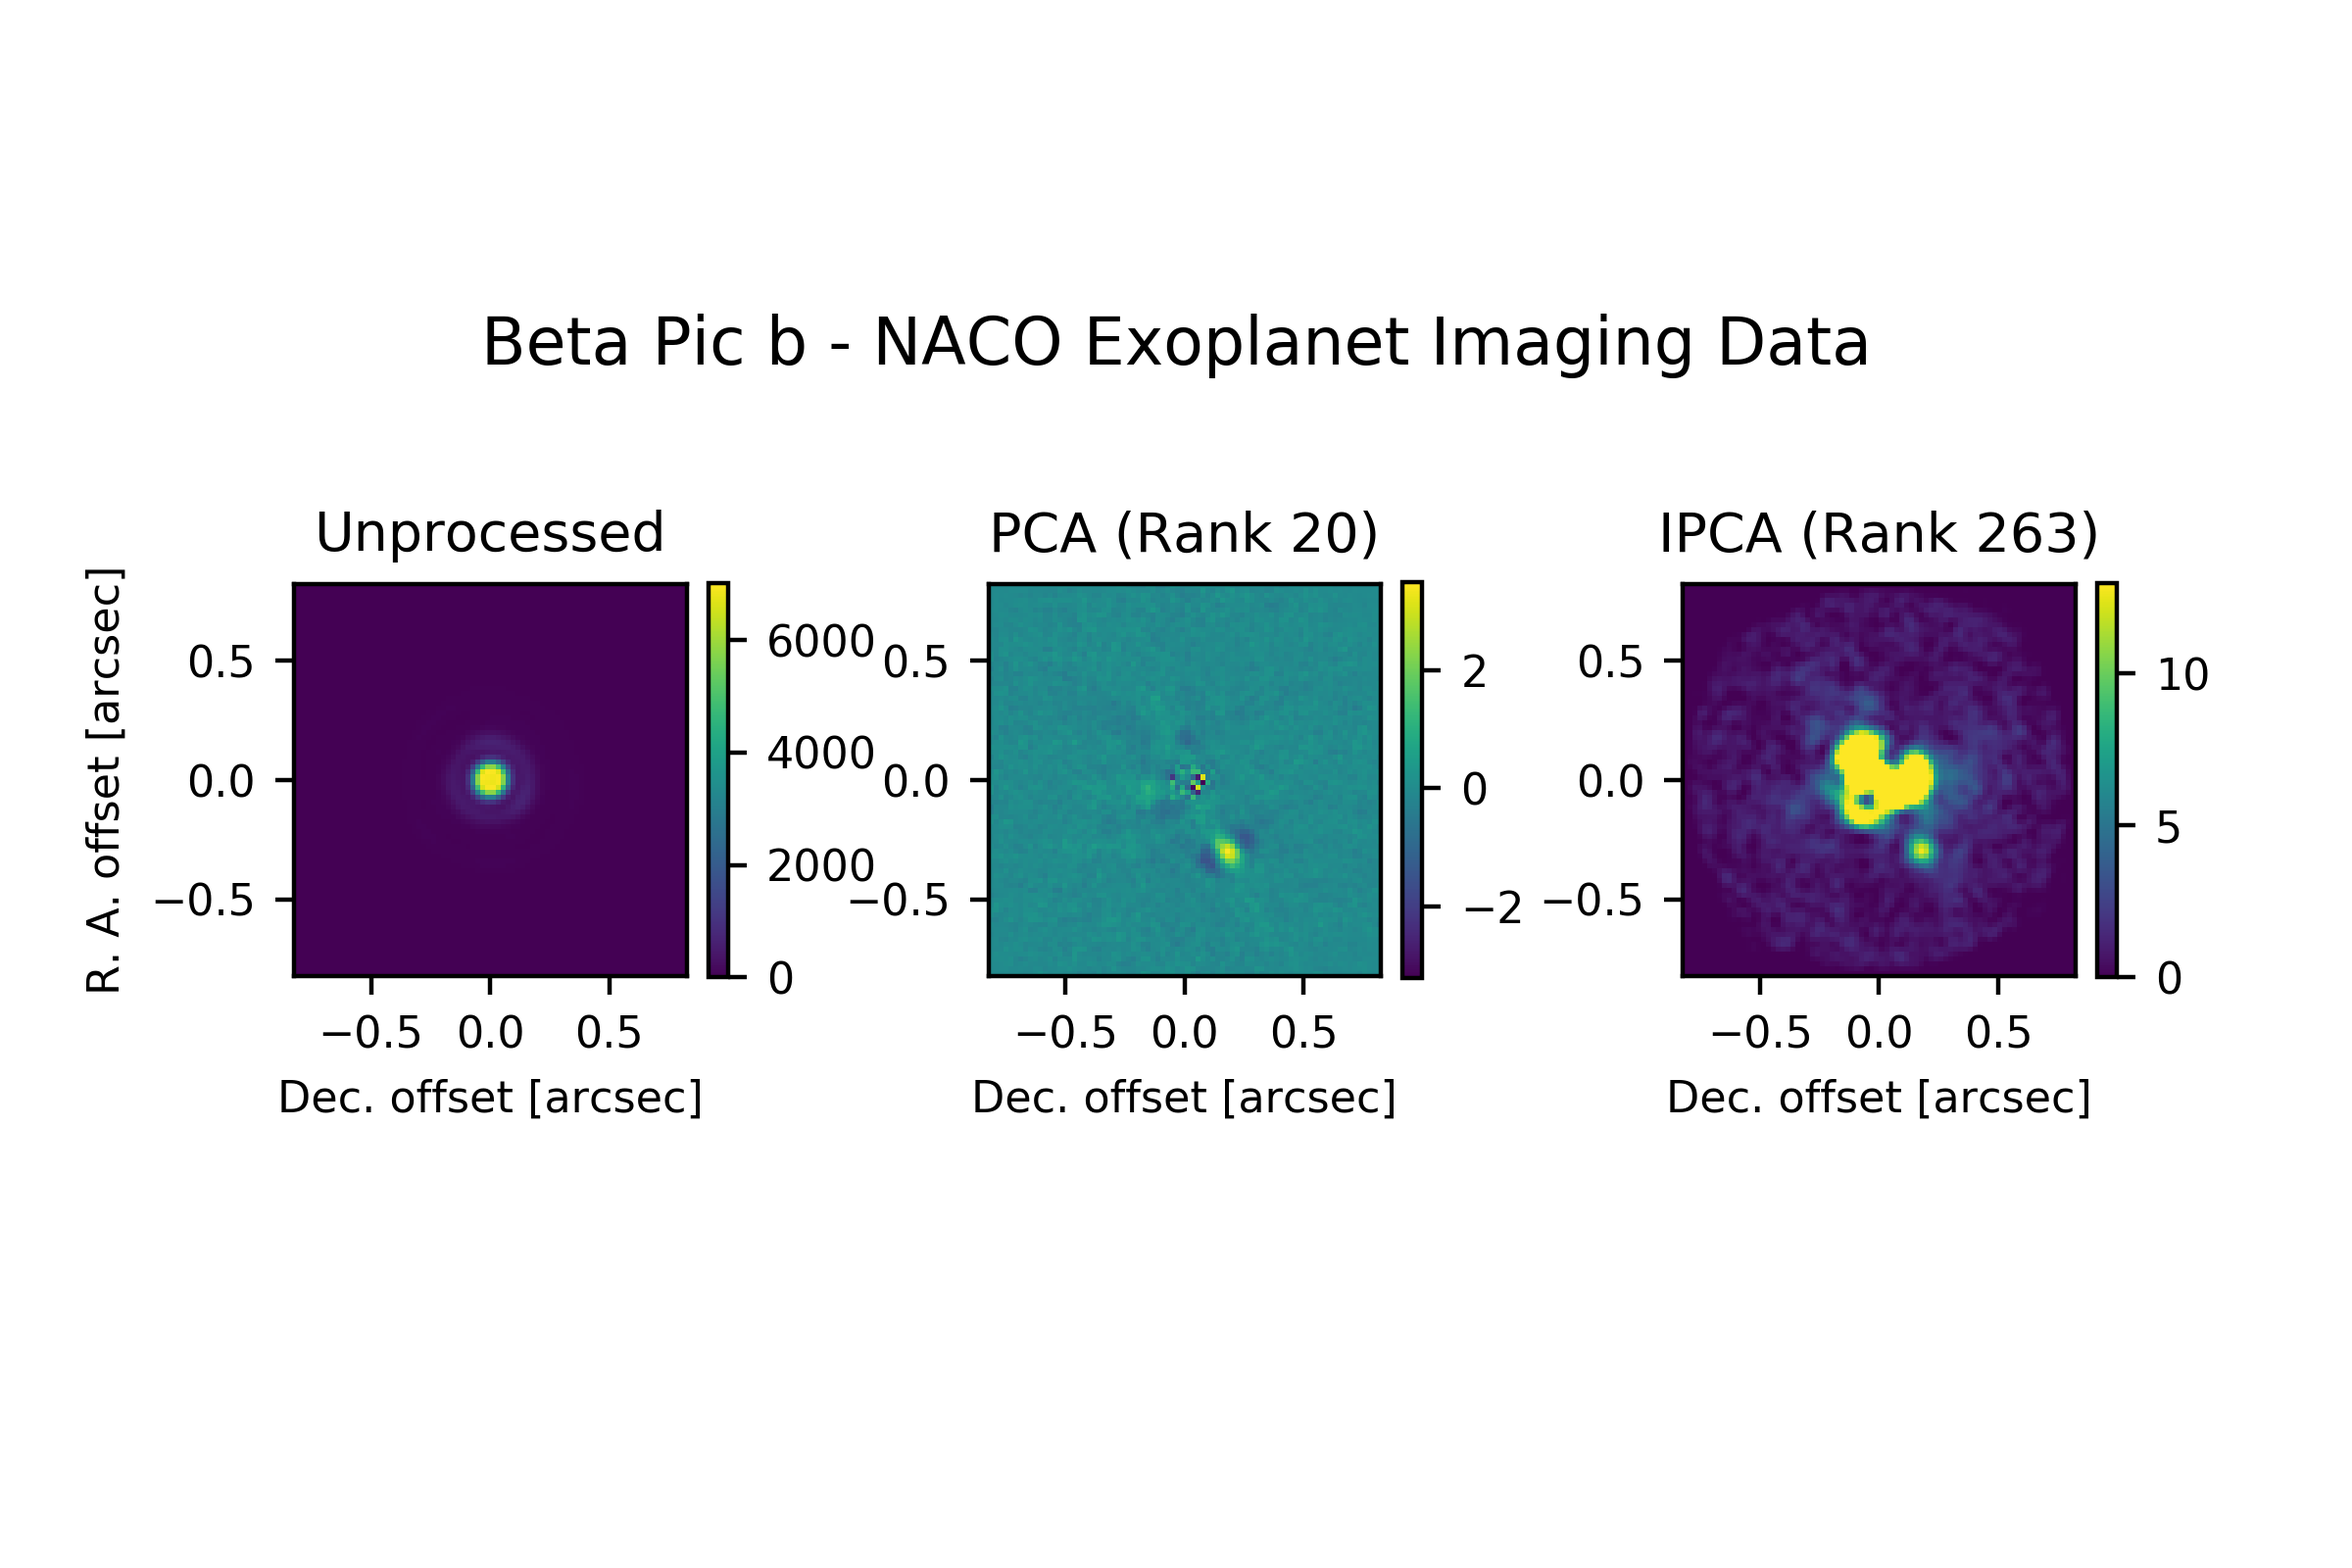
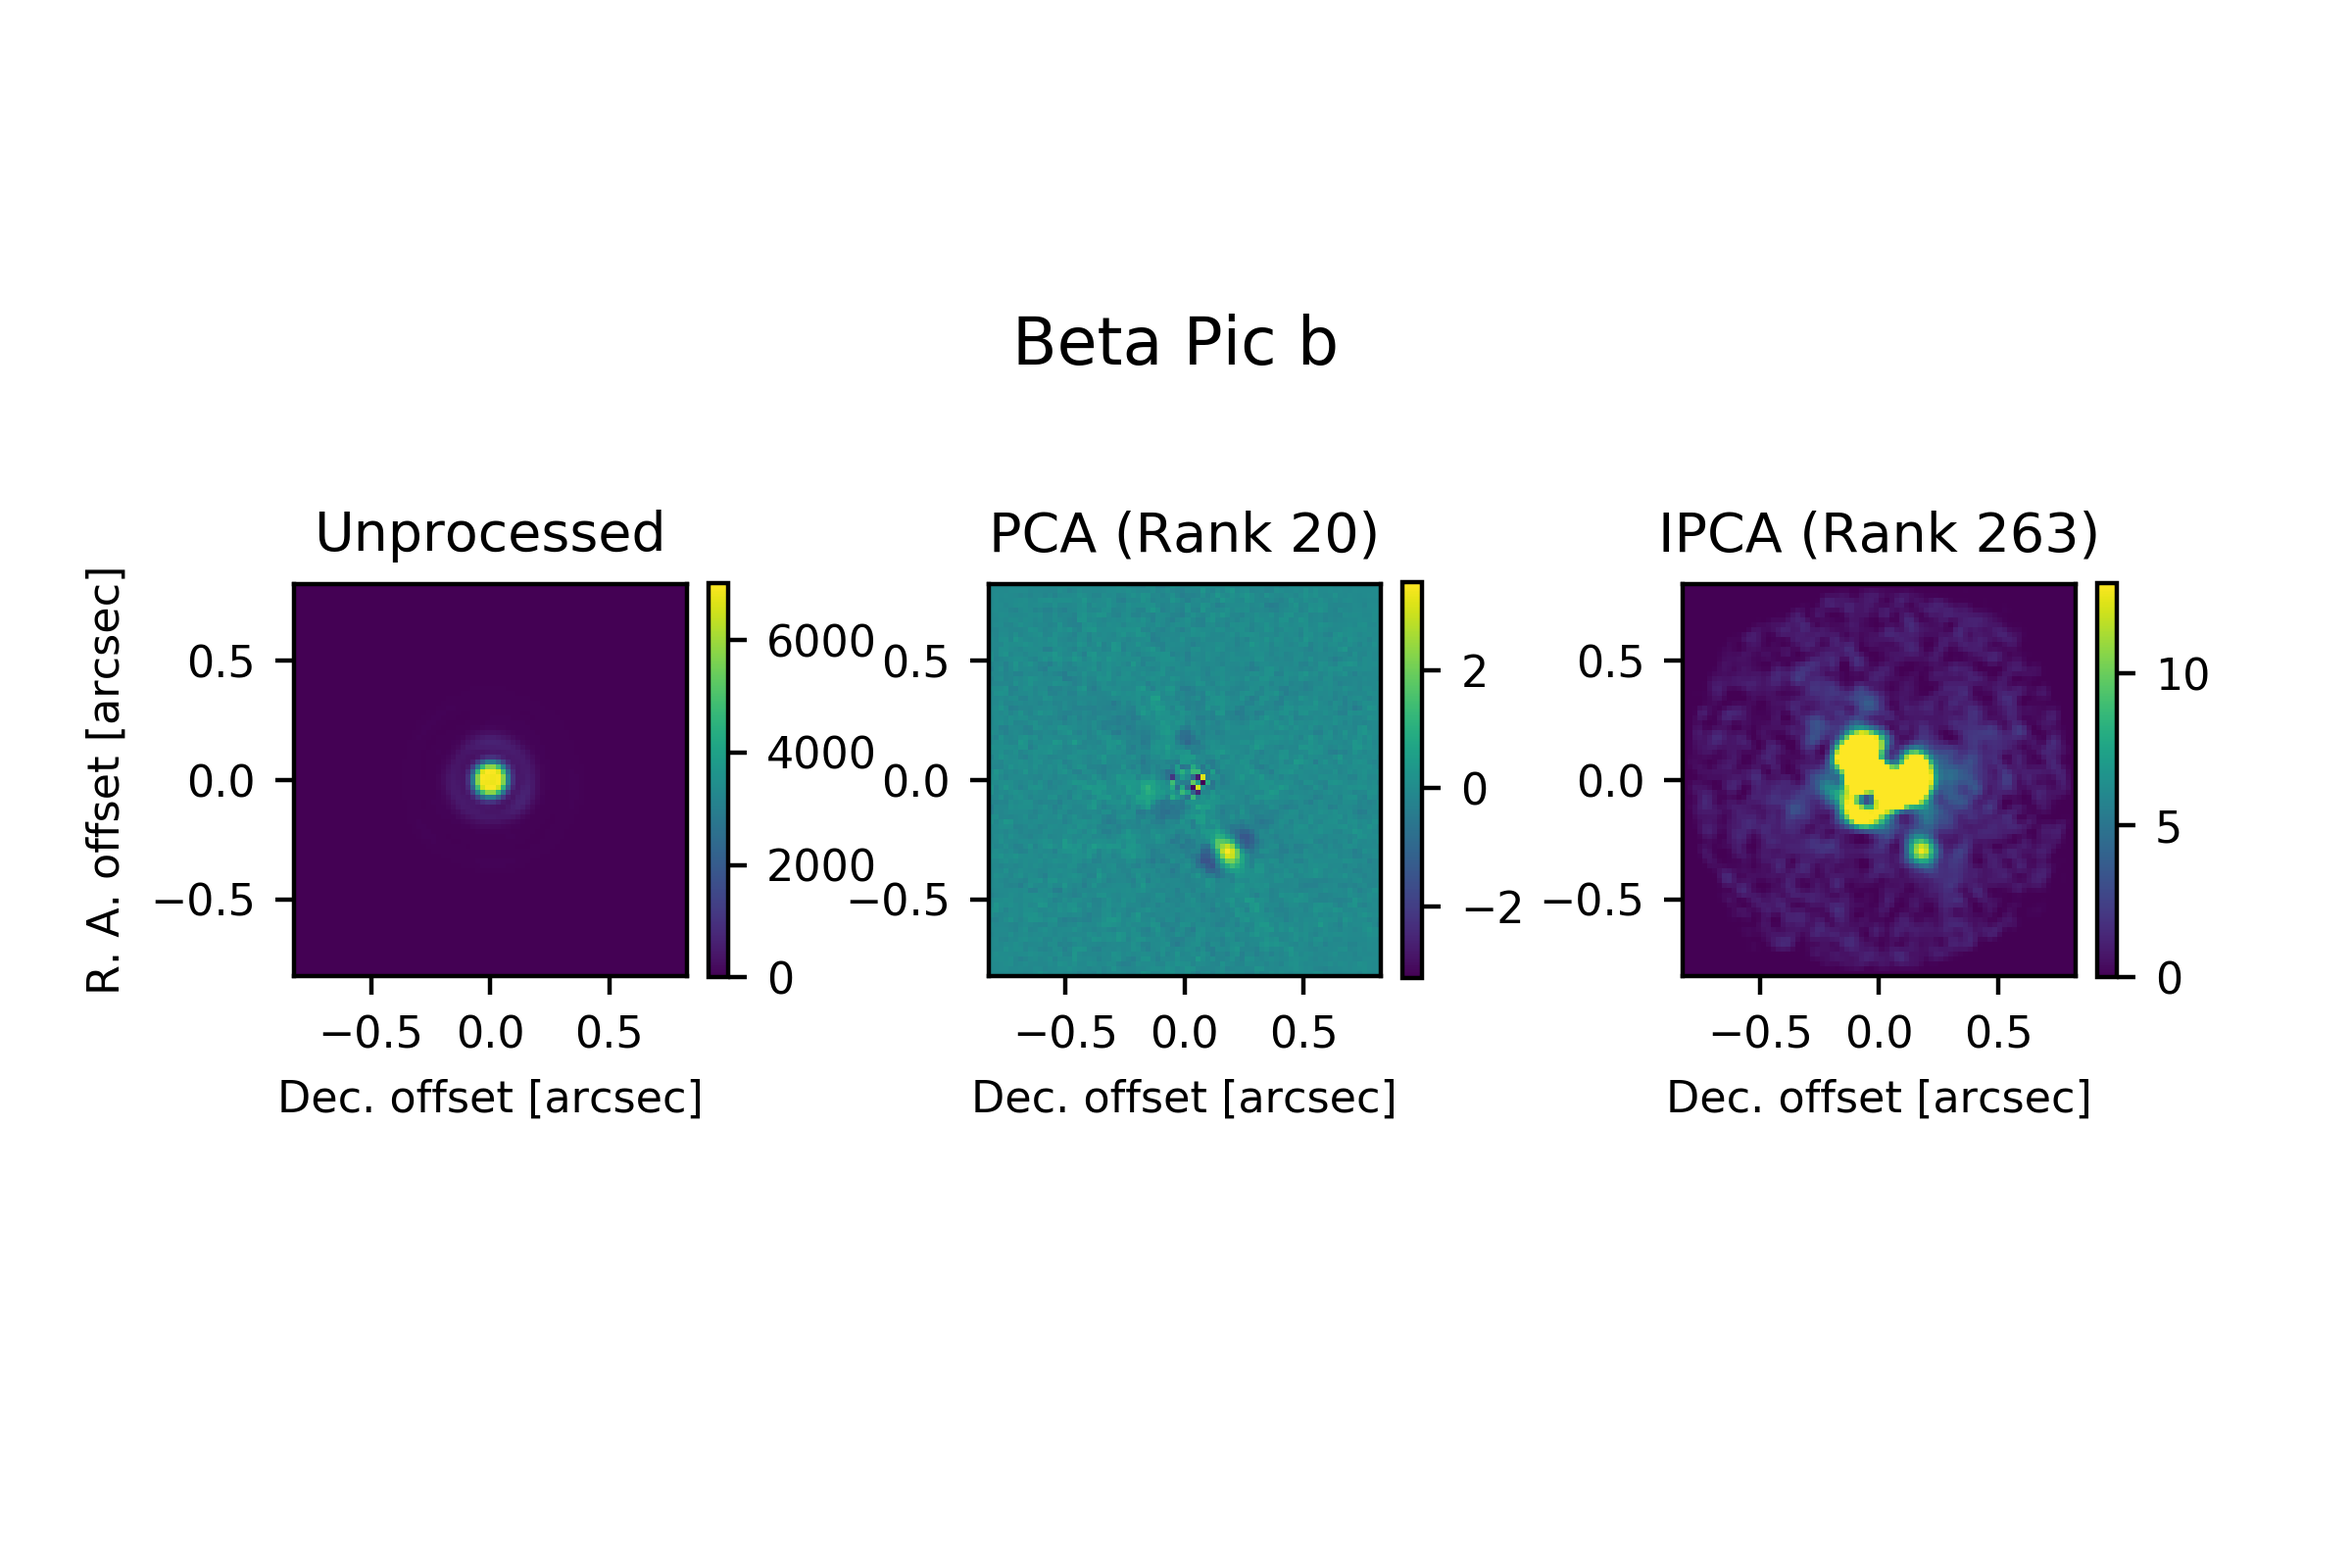
added V comparison for NACO data

Changed region(s): [[0.375, 0.1875, 0.8125, 0.25], [0.1875, 0.1875, 0.3438, 0.25]]

diff --git a/naco.py b/naco.py
@@ -36,11 +36,42 @@ rank_pca = 10
 rank_ipca = 230
 
 frame_pca = PCA(data_cube, rank_pca, parangs)
-
 #frame_ipca = IPCA(data_cube, rank_ipca, parangs)
 #np.savetxt("output/arrays/naco_" + str(rank_ipca) + ".txt", frame_ipca)
-
 frame_ipca = np.loadtxt("output/arrays/naco_230.txt")
+
+
+
+
+
+#'''plot V from Y vs. V from Y-D'''
+#image_number = 10
+#
+##old V
+#V_old = SVD(cube2mat(data_cube))[2].T
+#V_old_cube = mat2cube(V_old)
+#V_old_frame = V_old_cube[image_number]
+#
+##increased V
+#V = SVD(IPCA_V(data_cube, rank_ipca, parangs))[2].T # from SVD(Y - theta(...))
+#V_cube = mat2cube(V)
+#V_frame = V_cube[image_number]
+#
+##plot
+#plt.suptitle("Comparison of V built from different Matrices")
+#plt.subplot(1, 2, 1)
+#plt.title("V from Y")
+#plt.imshow(V_frame)
+#plt.colorbar()
+#plt.subplot(1, 2, 2)
+#plt.title("V from Y - D")
+#plt.imshow(V_old_frame)
+#plt.colorbar()
+#plt.savefig("output/naco_comparison.png", dpi = 400)
+#plt.show()
+
+
+
 
 
 '''plot data'''
@@ -55,21 +86,21 @@ plt.imshow(np.mean(data_cube, axis = 0), origin = "lower", extent = [-0.8235, 0.
 plt.ylabel("R. A. offset [arcsec]", fontsize = font)
 plt.xlabel("Dec. offset [arcsec]", fontsize = font)
 plt.tick_params(labelsize=font)
-plt.colorbar(fraction = 0.0455).ax.tick_params(labelsize=font)
+plt.colorbar(fraction = 0.045).ax.tick_params(labelsize=font)
 
 plt.subplot(1, 3, 2)
 plt.title("PCA (Rank " + str(rank_pca) + ")", fontsize = font_title)
 plt.imshow(frame_pca, origin = "lower", extent = [-0.8235, 0.8235, -0.8235, 0.8235])
 plt.xlabel("Dec. offset [arcsec]", fontsize = font)
 plt.tick_params(labelsize=font)
-plt.colorbar(fraction = 0.0455).ax.tick_params(labelsize=font)
+plt.colorbar(fraction = 0.045).ax.tick_params(labelsize=font)
 
 plt.subplot(1, 3, 3)
 plt.title("IPCA (Rank " + str(rank_ipca) + ")", fontsize = font_title)
 plt.imshow(frame_ipca, origin = "lower", vmax=7, extent = [-0.8235, 0.8235, -0.8235, 0.8235])
 plt.xlabel("Dec. offset [arcsec]", fontsize = font)
 plt.tick_params(labelsize=font)
-plt.colorbar(fraction = 0.0455).ax.tick_params(labelsize=font)
+plt.colorbar(fraction = 0.045).ax.tick_params(labelsize=font)
 
 plt.savefig("output/naco_" + str(rank_ipca) + ".png", dpi=400)
 plt.show()

diff --git a/ipca.py b/ipca.py
@@ -70,9 +70,13 @@ def IPCA(A_cube, p, angles = None): #takes an unprocessed data cube, a max rank 
     S = Y - LRA(Y, 1) #S_0
     for i in range(1, p+1):
         S = Y - LRA(Y-theta(red(S, angles), A_cube, angles), i)
-    return red(S, angles)
+        V = Y - theta(red(S, angles), A_cube, angles)
+    return red(S, angles), V
     
-    
-    
-test = np.array([[3, 2, 3], [2, 20, 4], [1, 3, 1]])
-print(SVD(test)[1])
+def IPCA_V(A_cube, p, angles = None): #IPCA funtion to visualize frame just containing the star
+    Y = cube2mat(A_cube)
+    S = Y - LRA(Y, 1) #S_0
+    for i in range(1, p+1):
+        #S = Y - LRA(Y-theta(red(S, angles), A_cube, angles), i)
+        V = Y - theta(red(S, angles), A_cube, angles)
+    return V

diff --git a/pynpoint_example.py b/pynpoint_example.py
@@ -43,7 +43,7 @@ frame_ipca = np.loadtxt("output/arrays/pynpoint_example_" + str(rank_ipca) + ".t
 
 
 '''plot data'''
-plt.suptitle("Beta Pic b - NACO Exoplanet Imaging Data", y = 0.8)
+plt.suptitle("Beta Pic b", y = 0.8)
 plt.subplots_adjust(wspace=0.6)
 font = 8
 font_title = 10
